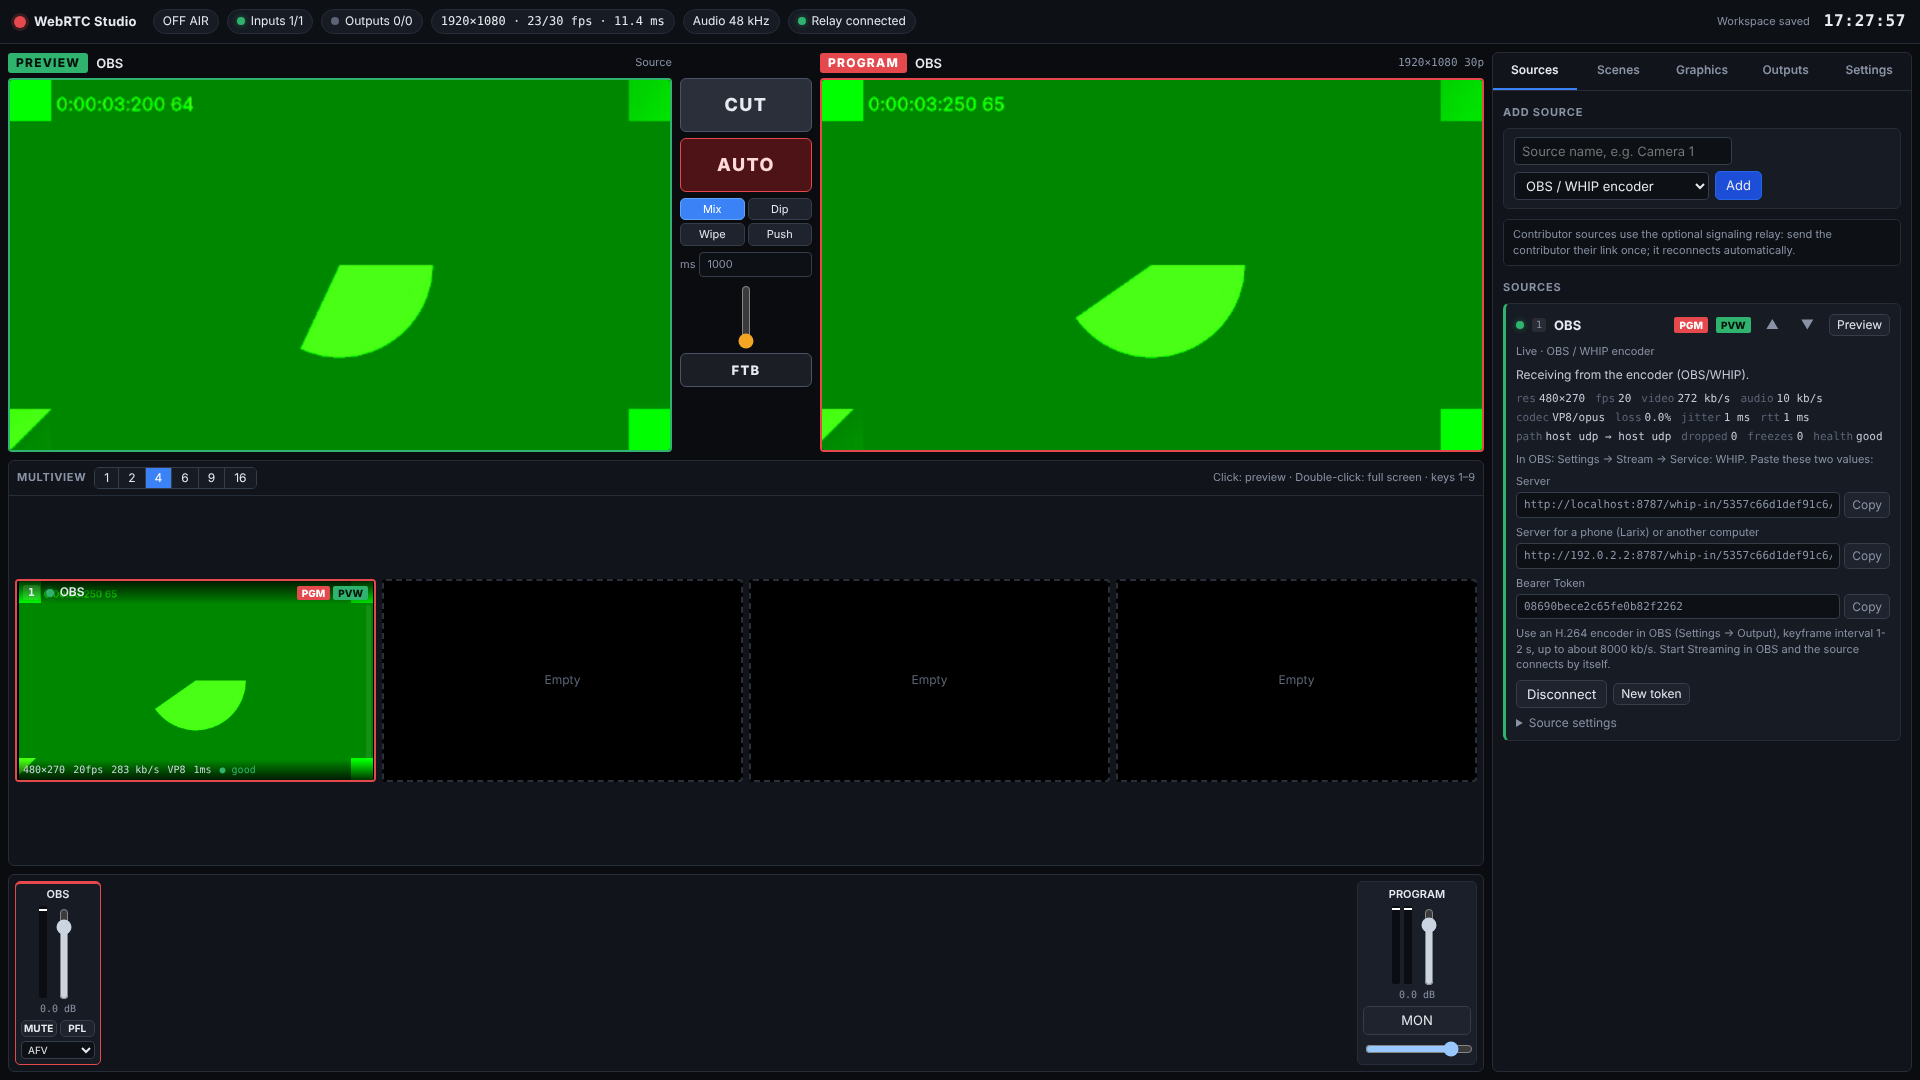
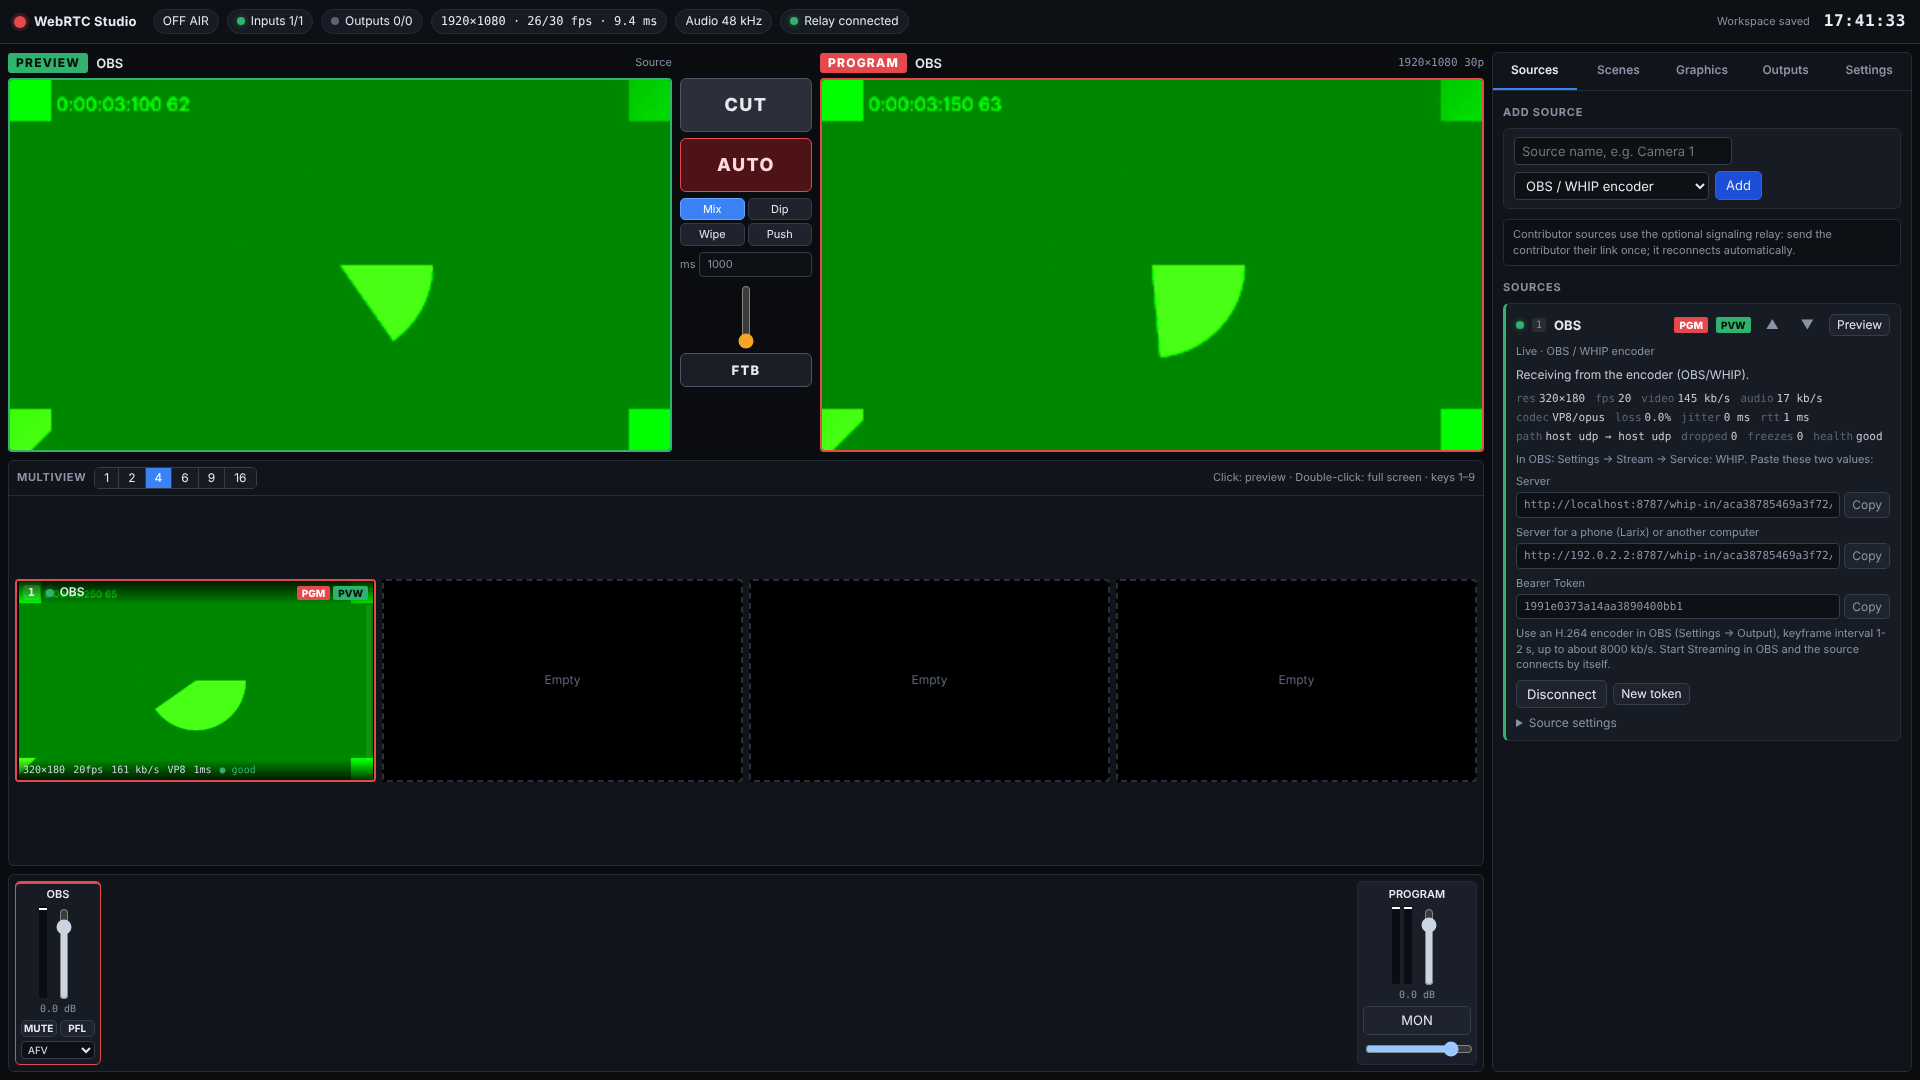
Show when the remembered helper can't be reached
The OBS card kept showing WHIP URLs for a helper that was stopped or
uninstalled, because the page remembers the helper address. It now says the
helper can't be reached and offers Install helper, Check again and Forget
helper, and updates when the helper comes back or goes away.

Claude-Session: https://claude.ai/code/session_01TXQsWUxCXqvGfJ2jmGGNSr

diff --git a/js/ui/side.js b/js/ui/side.js
@@ -235,6 +235,15 @@ function mountSourcesTab(app, root) {
             'Downloads a small setup file. Run it once: it installs Node.js if needed, starts the helper in the background on this computer and again at every sign-in, and asks once for admin so your phone and OBS on this network can connect. Then click Check again. ',
             `On macOS or Linux: install Node.js and run node signaling-server/server.mjs --port ${HELPER_PORT}.`))];
     }
+    if (app.relay?.state !== 'open') {
+      return [el('div', { class: 'note warn' }, `Can't reach the helper at ${st.signalingUrl}. It may not be running, or it was removed.`),
+        el('div', { class: 'btn-row' },
+          el('button', { class: 'btn primary', onclick: downloadHelperInstaller }, 'Install helper (Windows)'),
+          el('button', { class: 'btn', onclick: () => app.setupRelay() }, 'Check again'),
+          el('button', { class: 'btn', title: 'Stop using this helper address', onclick: () => {
+            st.signalingUrl = ''; store.save(); app.helperOrigin = null; app.setupRelay(); app.ui.emit('settings'); app.detectHelper();
+          } }, 'Forget helper'))];
+    }
     return [
       el('div', { class: 'small muted' }, 'In OBS: Settings → Stream → Service: WHIP. Paste these two values:'),
       field('Server', linkBox(sources.obsUrl(s.id), 'Copy')),
@@ -273,6 +282,7 @@ function mountSourcesTab(app, root) {
   });
   switcher.on('change', () => { for (const s of sources.all()) cards.refresh(s); });
   app.ui.on('settings', renderAll);
+  app.ui.on('relay', renderAll);
   renderAll();
 }
 
